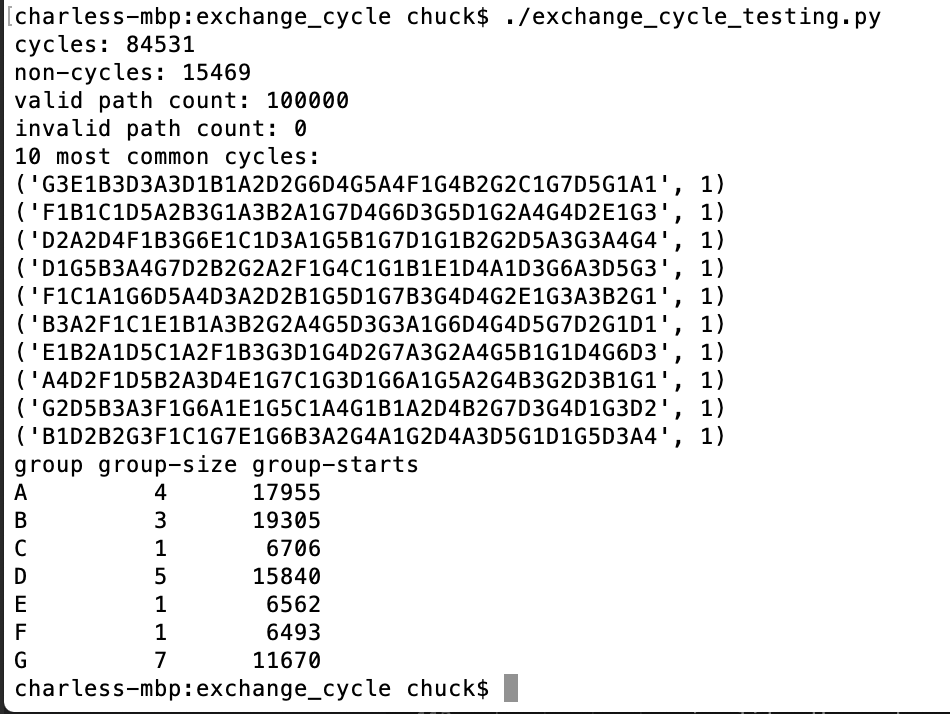
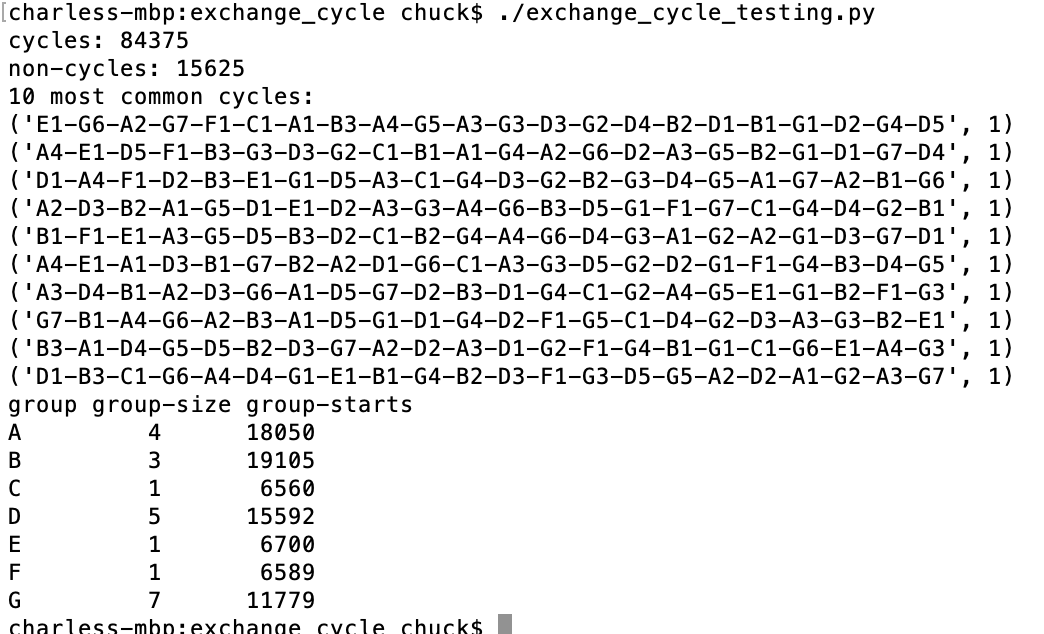
adds dash between participants and updates image

Changed region(s): [[0.0, 0.0, 1.0, 1.0], [0.9463, 0.1798, 0.9768, 0.5994]]

diff --git a/exchange_cycle_testing.py b/exchange_cycle_testing.py
@@ -86,9 +86,6 @@ def main():
     cycle_count: int = 0
     non_cycle_count: int = 0
 
-    valid_path_count: int = 0
-    invalid_path_count: int = 0
-
     cycles: List[str] = []
 
     groups = [
@@ -103,17 +100,14 @@ def main():
 
     if has_valid_hamiltonian_path(groups):  
         for i in range(ITERATIONS):
-            mygroups = deepcopy(groups)
-            path = find_random_hamiltonian_path(mygroups)
 
-            if is_valid_path(path):
-                valid_path_count += 1
-            else:
-                invalid_path_count += 1
+            mygroups = deepcopy(groups)
+
+            path = find_random_hamiltonian_path(mygroups)
 
             if is_path_a_cycle(path):
                 cycle_count += 1
-                cycles.append(''.join(path))
+                cycles.append('-'.join(path))
                 # print(f'cycle: {path}')
             else:
                 non_cycle_count += 1
@@ -123,8 +117,6 @@ def main():
 
     print(f'cycles: {cycle_count}')
     print(f'non-cycles: {non_cycle_count}')
-    print(f'valid path count: {valid_path_count}')
-    print(f'invalid path count: {invalid_path_count}')
 
     most_common_cycles = Counter(cycles).most_common(10)
     print(f'10 most common cycles:')
